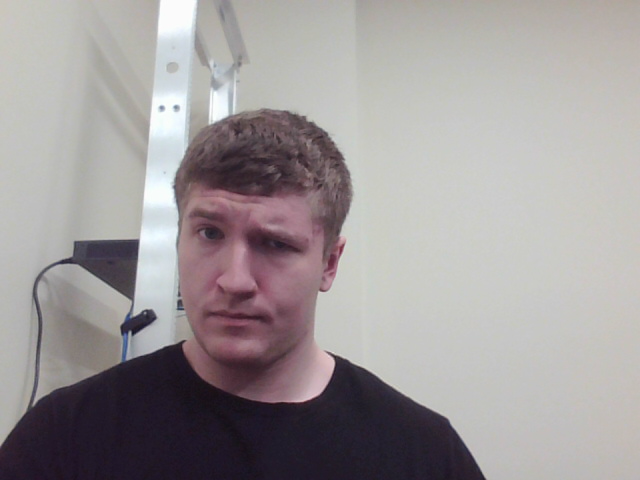
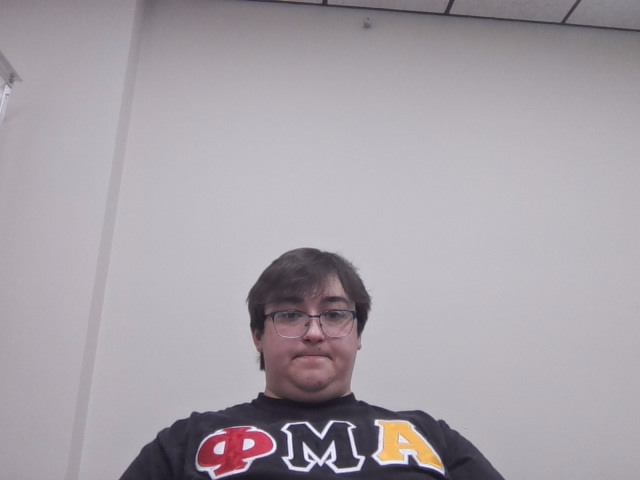
created desktopChange

diff --git a/desktopChange.py b/desktopChange.py
@@ -1,0 +1,6 @@
+import ctypes as ct
+import os
+
+def set_wallpaper(path):
+    absolute_path = os.path.abspath(path)
+    ct.windll.user32.SystemParametersInfoW(20, 0, absolute_path, 3)

diff --git a/main.py b/main.py
@@ -1,4 +1,6 @@
 import threading
 import you_exe as you
+import desktopChange as dc
 
-you.startUp()
+#you.startUp()
+dc.set_wallpaper("funny.png")
